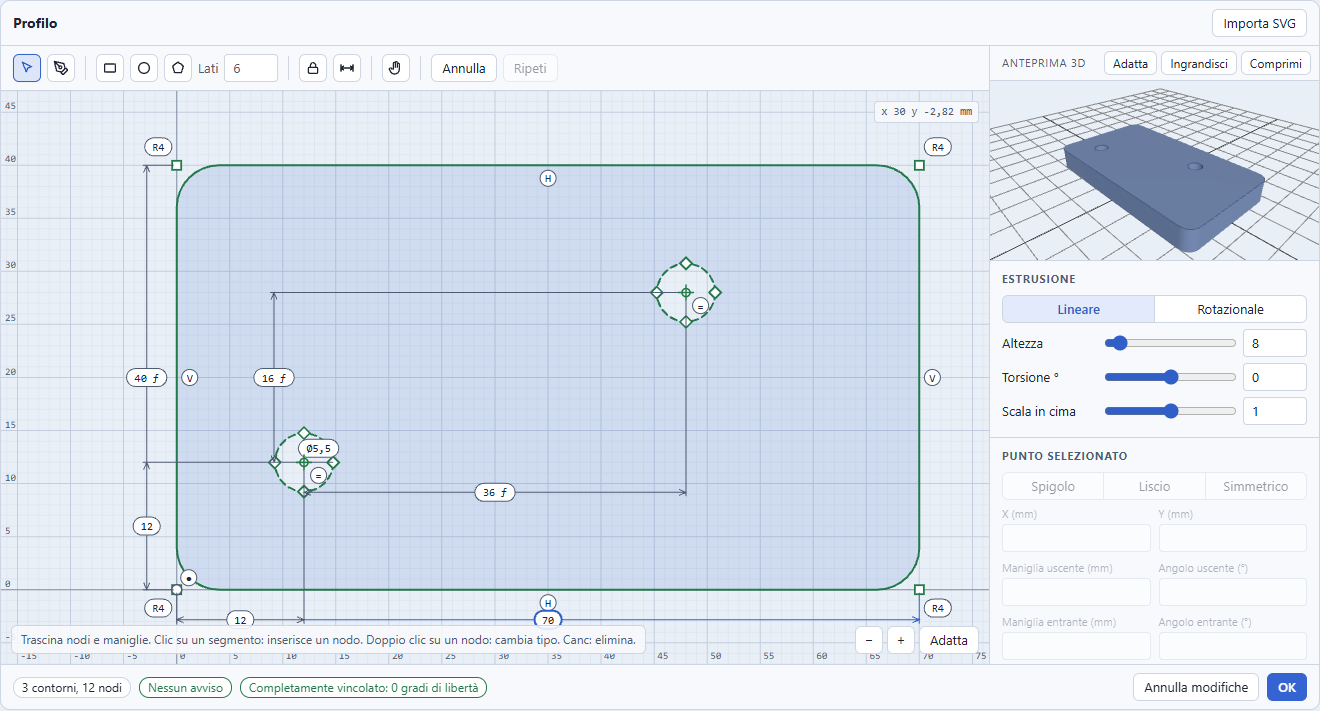
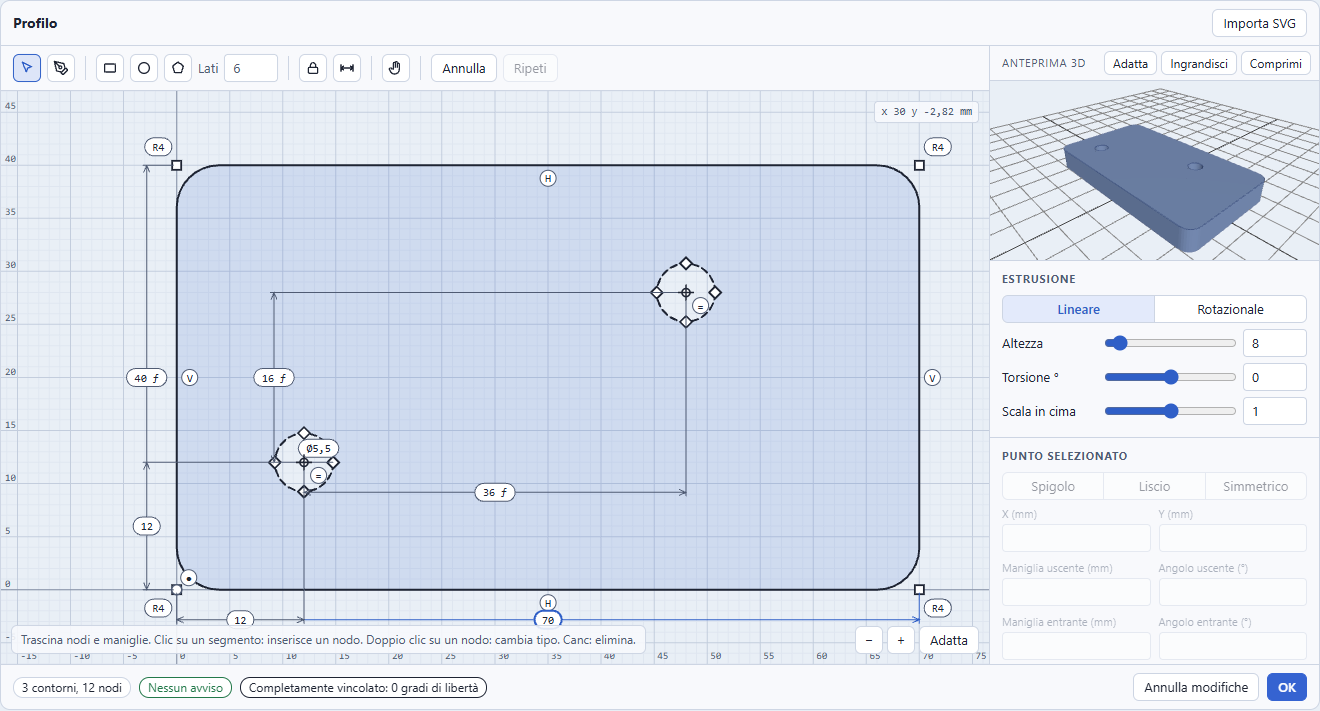
fix: prototipo, trascinamento con peso 30 e tolleranza larga, esito non risolto, angolo ruotato prima di risolvere, completamente vincolato in nero; bench con il caso non lineare

diff --git a/docs/prototipi/profilo-quote.html b/docs/prototipi/profilo-quote.html
@@ -199,6 +199,7 @@ details.sec[open] > summary { margin-bottom: 8px; }
 .chip--warn { border-color: var(--warn); color: var(--warn); }
 .chip--err { border-color: var(--danger); color: var(--danger); }
 .chip--ok { border-color: var(--ok); color: var(--ok); }
+.chip--def { border-color: var(--text); color: var(--text); }
 
 /* Importa SVG */
 .imp { position: absolute; inset: 0; z-index: 10; display: grid; place-items: center; background: rgba(10, 14, 20, 0.55); padding: 16px; }
@@ -235,15 +236,15 @@ details.sec[open] > summary { margin-bottom: 8px; }
 #svg[data-tool="dim"], #svg[data-tool="cons"] { cursor: crosshair; }
 .tools .seg button { min-height: 28px; font-size: 12px; }
 .tools .qmode { flex: none; }
-/* Stato dei vincoli: sottovincolato (blu, il colore normale), vincolato (verde), sovravincolato (rosso) */
-.pth.st-def { stroke: var(--ok); }
+/* Stato dei vincoli: sottovincolato (blu, il colore normale), completamente vincolato (colore del testo: nero nel tema chiaro, come Fusion; il verde lì è la geometria fissa), sovravincolato (rosso) */
+.pth.st-def { stroke: var(--text); }
 .pth.st-err { stroke: var(--danger); }
 .pth.hole.cn { stroke-dasharray: 7 4; }
-.nd.st-def { stroke: var(--ok); }
+.nd.st-def { stroke: var(--text); }
 .nd.st-err { stroke: var(--danger); }
 .nd.st-def.sel, .nd.st-err.sel { fill: var(--accent); }
 .cen { fill: var(--raised); stroke: var(--accent); stroke-width: 1.6; }
-.cen.st-def { stroke: var(--ok); }
+.cen.st-def { stroke: var(--text); }
 .cen.st-err { stroke: var(--danger); }
 .org { fill: var(--raised); stroke: var(--muted); stroke-width: 1.5; }
 .org.pick { stroke: var(--accent); stroke-width: 3; }
@@ -512,7 +513,7 @@ details.sec[open] > summary { margin-bottom: 8px; }
       <tr><td>Quota <kbd>D</kbd></td><td>Scegli il tipo nella barra (Lunghezza, Orizz., Vert., Angolo, Raggio, Diametro). Clic su due nodi (anche l'origine) o su un segmento, poi digita il valore e premi Invio (Esc annulla). Angolo: due segmenti, oppure un segmento e Invio per l'angolo rispetto all'asse X. Raggio su uno spigolo: raccordo; su un cerchio: raggio. Clic su un'etichetta: la cambia. Una quota che renderebbe il disegno sovravincolato diventa di riferimento.</td></tr>
       <tr><td>Vincoli <kbd>K</kbd></td><td>Clic su nodi e segmenti per sceglierli, poi un pulsante della sezione Quote e vincoli. Icone sul disegno: H orizzontale, V verticale, F fisso, ∥ parallelo, ⊥ perpendicolare, = uguale, M punto medio, S simmetrico, ≡ collineare, ● coincidente. Canc elimina il vincolo scelto.</td></tr>
       <tr><td>Penna con misure</td><td>Dopo il primo punto digita un numero (o premi Tab): compaiono Lunghezza e Angolo. Tab passa da un campo all'altro, Invio conferma il punto, Esc chiude. I numeri digitati diventano quote.</td></tr>
-      <tr><td>Colori</td><td>Blu: ancora liberi (sottovincolato). Verde: completamente vincolato. Rosso: sovravincolato, con il conflitto evidenziato.</td></tr>
+      <tr><td>Colori</td><td>Blu: ancora liberi (sottovincolato). Nero (chiaro nel tema scuro): completamente vincolato. Rosso: sovravincolato, con il conflitto evidenziato. Giallo nel piede: «non risolto», il risolutore si è fermato senza dimostrare un conflitto.</td></tr>
       <tr><td>Forme base <kbd>R</kbd> <kbd>C</kbd> <kbd>G</kbd></td><td>Si trascinano dal centro e diventano contorni di nodi modificabili. Un contorno dentro un altro è un foro.</td></tr>
       <tr><td>Vista</td><td>Rotella: zoom sul puntatore. Spazio o tasto centrale e trascina: panoramica. Anteprima: trascina per orbitare, rotella per lo zoom.</td></tr>
       <tr><td>Cronologia</td><td>Ctrl+Z e Ctrl+Maiusc+Z agiscono sul disegno. In Construct, premendo OK, il profilo vale un solo passo nella cronologia della scena.</td></tr>
@@ -1544,7 +1545,7 @@ function solveSketch(points, constraints, opts = {}) {
       } else schedule();
       return;
     }
-    if ((d.type === 'node' || d.type === 'handle' || d.type === 'center') && d.changed) commit();
+    if ((d.type === 'node' || d.type === 'handle' || d.type === 'center') && d.changed) { if (d.type !== 'handle') settle(); commit(); }
   }
   svg.addEventListener('pointerup', endDrag);
   svg.addEventListener('pointercancel', endDrag);
@@ -1640,7 +1641,7 @@ function solveSketch(points, constraints, opts = {}) {
     if (e.key.startsWith('Arrow') && S.sel && S.paths[S.sel.pi]) { // frecce: sposta il nodo di un passo
       e.preventDefault(); const st = gridStep() * (e.shiftKey ? 10 : 1), nd = S.paths[S.sel.pi].nodes[S.sel.ni];
       moveNode(S.sel, add(nd.p, [e.key === 'ArrowRight' ? st : e.key === 'ArrowLeft' ? -st : 0, e.key === 'ArrowUp' ? st : e.key === 'ArrowDown' ? -st : 0]));
-      commit();
+      settle(); commit();
     }
   });
 
@@ -1678,7 +1679,7 @@ function solveSketch(points, constraints, opts = {}) {
   function setXY(n, q) {
     const f = S.cons.find((c) => c.t === 'fixed' && c.p[0] === n.id);
     if (f) { f.x = q[0]; f.y = q[1]; }
-    moveNode(S.sel, q);
+    moveNode(S.sel, q); settle();
   }
   bindPt('ptX', (n, v) => setXY(n, [v, n.p[1]])); bindPt('ptY', (n, v) => setXY(n, [n.p[0], v]));
   bindPt('ptR', (n, v) => { if (v > 0) n.r = v; else delete n.r; });
@@ -1809,6 +1810,13 @@ function solveSketch(points, constraints, opts = {}) {
     const { pts, cons } = bundle();
     S.rep = summarize(solveSketch(pts, cons));
   }
+  // Esito di una risoluzione: 'ok', 'unsolved' (il risolutore si è fermato, nessun colpevole) o 'conflict' (minimo dei quadrati minimi con residuo)
+  function outcome(rep) {
+    if (S.allowOver) return 'ok';
+    if (rep.unsolved) return 'unsolved';
+    return !rep.converged || rep.conflicting.length ? 'conflict' : 'ok';
+  }
+  const UNSOLVED = 'Il risolutore non è arrivato a una soluzione (non è detto che ci sia un conflitto): prova un valore più vicino a quello attuale.';
   // Risolve dalla configurazione attuale e scrive i punti nel disegno
   function solveApply() {
     const { pts, cons } = bundle();
@@ -1817,12 +1825,20 @@ function solveSketch(points, constraints, opts = {}) {
     S.rep = summarize(rep);
     return rep;
   }
-  // Trascinamento: i punti mossi vanno sul bersaglio con un peso alto, gli altri si adattano il meno possibile (norma minima)
+  // Trascinamento: i punti mossi vanno sul bersaglio con un peso moderato (30: con 1000 i vincoli non lineari, angoli e
+  // lunghezze insieme, a 50 segmenti non convergevano entro 60 iterazioni), gli altri si adattano il meno possibile (norma minima).
+  // Tolleranza larga durante il trascinamento (1e-6 mm): un fotogramma quasi risolto (sotto 1e-4 mm, invisibile) si accetta;
+  // al rilascio settle() porta il disegno alla precisione piena.
   function dragSolve(moves) {
     const { pts, cons } = bundle(), weights = {};
-    for (const q of pts) if (moves[q.id]) { q.x = moves[q.id][0]; q.y = moves[q.id][1]; weights[q.id] = 1000; }
-    const rep = solveSketch(pts, cons, { weights, diagnose: false });
-    if (rep.converged) writeBack(rep.points); // senza soluzione (conflitto) il fotogramma si salta e il disegno resta com'era
+    for (const q of pts) if (moves[q.id]) { q.x = moves[q.id][0]; q.y = moves[q.id][1]; weights[q.id] = 30; }
+    const rep = solveSketch(pts, cons, { weights, diagnose: false, tol: 1e-6 });
+    if (rep.residual < 1e-4) writeBack(rep.points); // altrimenti il fotogramma si salta e il disegno resta com'era
+  }
+  function settle() { // dopo il trascinamento: fuori dal ciclo si può spendere qualche iterazione in più
+    if (!usesSolver()) return;
+    const { pts, cons } = bundle(), rep = solveSketch(pts, cons, { diagnose: false, maxIter: 300 });
+    if (rep.converged) writeBack(rep.points);
   }
   function moveNode(d, target) {
     const path = S.paths[d.pi], nd = path.nodes[d.ni];
@@ -1867,15 +1883,30 @@ function solveSketch(points, constraints, opts = {}) {
     toast(msg);
     S.flash = new Set(ids); setTimeout(() => { S.flash = null; schedule2d(); }, 3000); schedule2d();
   }
+  // Prima di risolvere una quota d'angolo si ruota il segmento al nuovo angolo: il risolutore parte vicino alla soluzione
+  // (da 10 a 170 gradi la strada a norma minima sposterebbe i nodi di decine di mm) e non incontra il salto a 180 gradi.
+  // Gira attorno all'estremo più vincolato (quello che non ha gradi di libertà, altrimenti il primo).
+  function preRotate(c, v) {
+    if (c.t !== 'angle' || c.ref) return;
+    const pm = ptMap(), delta = (v - measure(c, bundle().pts)) * Math.PI / 180;
+    if (!Number.isFinite(delta) || Math.abs(delta) < 1e-12) return;
+    let [pivot, mover] = c.p.length === 2 ? [c.p[0], c.p[1]] : [c.p[2], c.p[3]]; // il segmento che gira è il secondo (cd), o ab se i punti sono due
+    if (S.rep && S.rep.freeSet.has(pivot) && !S.rep.freeSet.has(mover)) [pivot, mover] = [mover, pivot];
+    const o = pm[pivot], q = pm[mover], d = [q[0] - o[0], q[1] - o[1]], cs = Math.cos(delta), sn = Math.sin(delta);
+    q[0] = o[0] + d[0] * cs - d[1] * sn; q[1] = o[1] + d[0] * sn + d[1] * cs;
+  }
   function addConstraint(con) {
     const snap = snapshot();
     if (!con.id) con.id = kid();
+    preRotate(con, con.v);
     S.cons.push(con);
     let rep = solveApply();
     if (rep.redundant.includes(con.id) && !S.allowOver) {
       if (isDim(con)) { con.ref = true; solveApply(); toast('Il disegno è già vincolato: la quota diventa di riferimento (tra parentesi).'); }
       else { applySnap(snap); toast('Vincolo ridondante: gli altri vincoli lo impongono già.'); return false; }
-    } else if ((!rep.converged || rep.conflicting.length) && !S.allowOver) {
+    } else if (outcome(rep) === 'unsolved') {
+      applySnap(snap); toast(UNSOLVED); return false;
+    } else if (outcome(rep) === 'conflict') {
       const others = rep.conflicting.filter((id) => id !== con.id), names = namesOf(others);
       applySnap(snap);
       if (isDim(con)) { S.qbar = { con, msg: 'Sovravincolo: la quota va in conflitto con ' + (names || 'gli altri vincoli') + '.' }; S.flash = new Set(others); setTimeout(() => { S.flash = null; schedule2d(); }, 3000); schedule(); }
@@ -1889,7 +1920,8 @@ function solveSketch(points, constraints, opts = {}) {
     const snap = snapshot();
     mutate();
     const rep = solveApply();
-    if ((!rep.converged || rep.conflicting.length) && !S.allowOver) {
+    if (outcome(rep) === 'unsolved') { applySnap(snap); toast(UNSOLVED); return false; }
+    if (outcome(rep) === 'conflict') {
       const bad = rep.conflicting.slice(), names = namesOf(bad);
       applySnap(snap);
       reject('Valore non raggiungibile: va in conflitto con ' + (names || 'i vincoli') + '.', bad);
@@ -1900,7 +1932,7 @@ function solveSketch(points, constraints, opts = {}) {
   function setDimValue(c, v, expr) {
     const msg = validateValue(c.t, v);
     if (msg) { toast(msg); schedule(); return false; }
-    return tryApply(() => { c.v = v; if (expr) c.expr = expr; else delete c.expr; });
+    return tryApply(() => { preRotate(c, v); c.v = v; if (expr) c.expr = expr; else delete c.expr; });
   }
   function toggleRef(id) {
     const c = S.cons.find((x) => x.id === id); if (!c) return;
@@ -1908,6 +1940,7 @@ function solveSketch(points, constraints, opts = {}) {
     const snap = snapshot(), pa = bundle().pts;
     c.ref = false; c.v = measure(c, pa); // da riferimento a pilotante: tiene la misura attuale
     const rep = solveApply();
+    if (rep.unsolved) { applySnap(snap); toast(UNSOLVED); return; }
     if (rep.redundant.includes(c.id) || rep.conflicting.length || !rep.converged) { applySnap(snap); toast('Il disegno è già vincolato: la quota resta di riferimento.'); return; }
     commit();
   }
@@ -2102,6 +2135,7 @@ function solveSketch(points, constraints, opts = {}) {
       for (const it of S.csel) if (it.id !== 'O' && !S.cons.some((c) => c.t === 'fixed' && c.p[0] === it.id)) addPlain({ t: 'fixed', p: [it.id], x: pm[it.id][0], y: pm[it.id][1] });
       if (S.cons.length === before) { toast('I nodi scelti sono già fissi (l’origine lo è sempre).'); return; }
       const rep = solveApply();
+      if (rep.unsolved && !S.allowOver) { applySnap(snap); toast(UNSOLVED); return; }
       if ((rep.redundant.length || rep.conflicting.length || !rep.converged) && !S.allowOver) { applySnap(snap); toast('Fissare questi nodi renderebbe il disegno sovravincolato.'); return; }
       S.csel = []; commit(); return;
     }
@@ -2222,7 +2256,8 @@ function solveSketch(points, constraints, opts = {}) {
     if (!S.cons.length || !S.rep) return '';
     const r = S.rep;
     if (r.state === 'over') return `<span class="chip chip--err">Sovravincolato: ${[r.conflicting.length ? r.conflicting.length + ' in conflitto' : '', r.redundant.length ? r.redundant.length + ' ridondanti' : '', r.converged ? '' : 'non risolvibile'].filter(Boolean).join(', ')}</span>`;
-    if (r.state === 'full') return '<span class="chip chip--ok">Completamente vincolato: 0 gradi di libertà</span>';
+    if (r.state === 'unsolved') return '<span class="chip chip--warn">Non risolto: il risolutore si è fermato, nessun conflitto dimostrato</span>';
+    if (r.state === 'full') return '<span class="chip chip--def">Completamente vincolato: 0 gradi di libertà</span>';
     return `<span class="chip chip--blue">Sottovincolato: ${r.dof} ${r.dof === 1 ? 'grado' : 'gradi'} di libertà</span>`;
   }
   function hintText() {
@@ -2266,7 +2301,8 @@ function solveSketch(points, constraints, opts = {}) {
     p.v = v;
     if (!reeval()) { applySnap(before); return; }
     const rep = solveApply();
-    if ((!rep.converged || rep.conflicting.length) && !S.allowOver) {
+    if (outcome(rep) === 'unsolved') { applySnap(before); toast(UNSOLVED); return; }
+    if (outcome(rep) === 'conflict') {
       const bad = rep.conflicting.slice(), names = namesOf(bad);
       applySnap(before); reject('Il valore ' + fmt(v) + ' di ' + p.name + ' va in conflitto con ' + (names || 'i vincoli') + '.', bad); return;
     }
